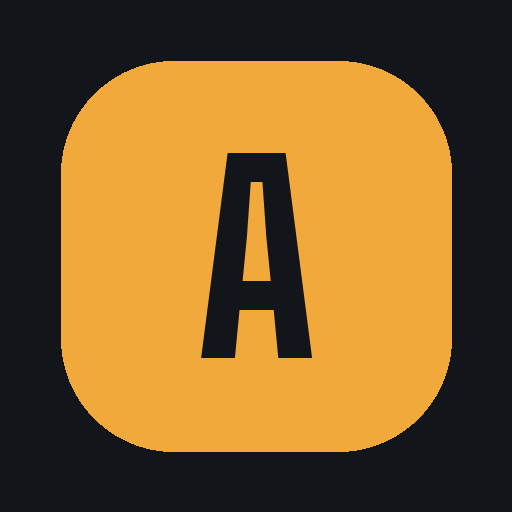
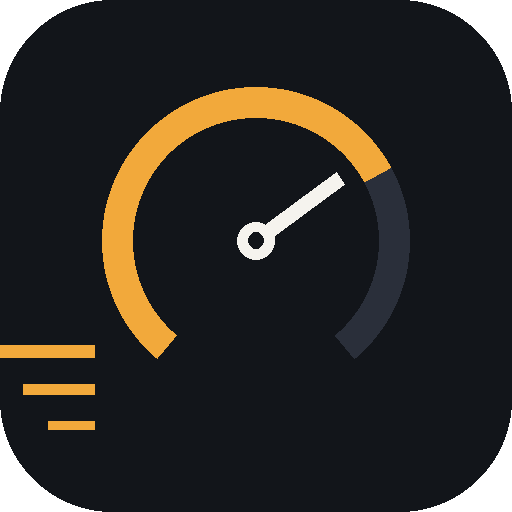
Add files via upload

diff --git a/css/style.css b/css/style.css
@@ -928,3 +928,45 @@ body.light-mode .modal-backdrop { background: #0A0C10aa; }
   background: var(--surface-2); color: var(--text); font-size: 18px; font-weight: 700; cursor: pointer;
 }
 .time-stepper .time-display { font-size: 20px; font-weight: 700; font-family: 'Space Grotesk', sans-serif; min-width: 84px; text-align: center; }
+
+/* ============ Splash Screen ============ */
+.splash-screen {
+  position: fixed; inset: 0; z-index: 999;
+  background: radial-gradient(circle at 50% 35%, #1B1F27 0%, #0A0C10 100%);
+  display: flex; flex-direction: column; align-items: center; justify-content: center;
+  transition: opacity .5s ease, visibility .5s ease;
+}
+.splash-screen.hide { opacity: 0; visibility: hidden; pointer-events: none; }
+
+.splash-gauge { width: 140px; height: 140px; }
+.splash-gauge-track { fill: none; stroke: #2A2F3A; stroke-width: 10; }
+.splash-gauge-fill {
+  fill: none; stroke: #F2A93B; stroke-width: 10; stroke-linecap: round;
+  stroke-dasharray: 251; stroke-dashoffset: 251;
+  animation: splashFill 1.1s cubic-bezier(.4,1.4,.6,1) .15s forwards;
+  filter: drop-shadow(0 0 8px #F2A93B88);
+}
+@keyframes splashFill { to { stroke-dashoffset: 70; } }
+
+.splash-needle {
+  stroke: #F5F3EE; stroke-width: 5; stroke-linecap: round;
+  transform-origin: 70px 70px;
+  transform: rotate(-100deg);
+  animation: splashNeedle 1.1s cubic-bezier(.4,1.4,.6,1) .15s forwards;
+}
+@keyframes splashNeedle { to { transform: rotate(90deg); } }
+.splash-hub { fill: #F5F3EE; }
+
+.splash-wordmark {
+  margin-top: 24px;
+  font-family: 'Space Grotesk', sans-serif;
+  font-size: 26px; font-weight: 700; color: #F5F3EE;
+  opacity: 0; transform: translateY(8px);
+  animation: splashText .5s ease .6s forwards;
+}
+.splash-tagline {
+  margin-top: 6px; font-size: 12px; color: #8B92A1; letter-spacing: .04em;
+  opacity: 0; transform: translateY(8px);
+  animation: splashText .5s ease .8s forwards;
+}
+@keyframes splashText { to { opacity: 1; transform: translateY(0); } }

diff --git a/js/auth.js b/js/auth.js
@@ -31,7 +31,14 @@ document.getElementById('loginForm').addEventListener('submit', async (e) => {
 
   const { error } = await supabaseClient.auth.signInWithPassword({ email, password });
   if (error) {
-    errEl.textContent = 'Email atau password salah.';
+    console.error('Login error:', error); // buka Inspect > Console buat lihat detail aslinya
+    if (error.message.includes('Invalid login credentials')) {
+      errEl.textContent = 'Email atau password salah.';
+    } else if (error.message.includes('Email not confirmed')) {
+      errEl.textContent = 'Email belum dikonfirmasi. Cek inbox/spam kamu dulu.';
+    } else {
+      errEl.textContent = `Gagal masuk: ${error.message}`;
+    }
     return;
   }
   window.location.href = 'app.html';
@@ -67,6 +74,12 @@ registerForm.addEventListener('submit', async (e) => {
 
 // ===== Redirect kalau sudah login =====
 (async () => {
+  const splash = document.getElementById('splashScreen');
+  const hide = () => splash && splash.classList.add('hide');
+  setTimeout(hide, 2500); // pengaman
+
   const { data: { session } } = await supabaseClient.auth.getSession();
-  if (session) window.location.href = 'app.html';
+  if (session) { window.location.href = 'app.html'; return; }
+
+  setTimeout(hide, 500); // beri jeda dikit biar animasi sempat kelihatan
 })();

diff --git a/app.html b/app.html
@@ -18,6 +18,18 @@
 </head>
 <body class="app-body">
 
+<!-- ============ SPLASH SCREEN ============ -->
+<div class="splash-screen" id="splashScreen">
+  <svg class="splash-gauge" viewBox="0 0 140 140">
+    <circle class="splash-gauge-track" cx="70" cy="70" r="40"/>
+    <circle class="splash-gauge-fill" cx="70" cy="70" r="40" transform="rotate(-90 70 70)"/>
+    <line class="splash-needle" x1="70" y1="70" x2="70" y2="30"/>
+    <circle class="splash-hub" cx="70" cy="70" r="6"/>
+  </svg>
+  <p class="splash-wordmark">Argo Meter</p>
+  <p class="splash-tagline">CATAT CUAN, BUKAN CUMA NARIK</p>
+</div>
+
 <div class="phone-frame">
 <div class="app-shell">
 
@@ -414,7 +426,7 @@
 
 <script src="https://cdn.jsdelivr.net/npm/@supabase/supabase-js@2"></script>
 <script src="https://cdn.jsdelivr.net/npm/chart.js@4"></script>
-<script src="https://app.sandbox.midtrans.com/snap/snap.js" data-client-key="Mid-client-HMM2hLKgKX_c0E6U"></script>
+<script src="https://app.sandbox.midtrans.com/snap/snap.js" data-client-key="MIDTRANS_CLIENT_KEY_DISINI"></script>
 <script src="js/supabase-config.js"></script>
 <script src="js/constants.js"></script>
 <script src="js/tracker.js"></script>

diff --git a/js/tracker.js b/js/tracker.js
@@ -2,6 +2,14 @@ let currentUser = null;
 let currentProfile = null;
 let allTransactions = [];
 
+// ===== Splash screen: minimal 900ms biar animasinya kelihatan, tapi nggak lama-lama =====
+const splashMinTime = new Promise(resolve => setTimeout(resolve, 900));
+function hideSplash() {
+  const splash = document.getElementById('splashScreen');
+  if (splash) splash.classList.add('hide');
+}
+setTimeout(hideSplash, 4000); // pengaman: paksa hilang maksimal 4 detik apapun yang terjadi
+
 // ===== Auth guard =====
 (async () => {
   const { data: { session } } = await supabaseClient.auth.getSession();
@@ -15,6 +23,8 @@ let allTransactions = [];
   applyTheme();
   await loadTransactions();
   if (typeof renderProfileTab === 'function') renderProfileTab();
+  await splashMinTime;
+  hideSplash();
 })();
 
 // ===== Bottom nav tab switching =====

diff --git a/js/supabase-config.js b/js/supabase-config.js
@@ -2,7 +2,7 @@
 // Cara dapatnya: Supabase Dashboard > Project Settings > API
 //   - "Project URL"      -> SUPABASE_URL
 //   - "anon public" key  -> SUPABASE_ANON_KEY
-const SUPABASE_URL = "https://ehjmdmmcmablxooocjba.supabase.co";
-const SUPABASE_ANON_KEY = "eyJhbGciOiJIUzI1NiIsInR5cCI6IkpXVCJ9.eyJpc3MiOiJzdXBhYmFzZSIsInJlZiI6ImVoam1kbW1jbWFibHhvb29jamJhIiwicm9sZSI6ImFub24iLCJpYXQiOjE3ODY1MjAxODYsImV4cCI6MjEwMjA5NjE4Nn0.PJUAITPT5PcLTjT9jRrLgWcWMlKV-03mjqTQssM8zLQ";
+const SUPABASE_URL = "https://xxxxxxxxxxxx.supabase.co";
+const SUPABASE_ANON_KEY = "isi-anon-key-kamu-disini";
 
 const supabaseClient = supabase.createClient(SUPABASE_URL, SUPABASE_ANON_KEY);

diff --git a/index.html b/index.html
@@ -20,6 +20,18 @@
 </head>
 <body>
 
+<!-- ============ SPLASH SCREEN ============ -->
+<div class="splash-screen" id="splashScreen">
+  <svg class="splash-gauge" viewBox="0 0 140 140">
+    <circle class="splash-gauge-track" cx="70" cy="70" r="40"/>
+    <circle class="splash-gauge-fill" cx="70" cy="70" r="40" transform="rotate(-90 70 70)"/>
+    <line class="splash-needle" x1="70" y1="70" x2="70" y2="30"/>
+    <circle class="splash-hub" cx="70" cy="70" r="6"/>
+  </svg>
+  <p class="splash-wordmark">Argo Meter</p>
+  <p class="splash-tagline">CATAT CUAN, BUKAN CUMA NARIK</p>
+</div>
+
 <div class="noise-overlay"></div>
 
 <div class="phone-frame">

diff --git a/service-worker.js b/service-worker.js
@@ -1,4 +1,4 @@
-const CACHE_NAME = 'argometer-v5';
+const CACHE_NAME = 'argometer-v6';
 const SHELL_FILES = [
   'index.html',
   'app.html',
@@ -13,6 +13,8 @@ const SHELL_FILES = [
   'js/analysis.js',
   'js/profile.js',
   'manifest.json',
+  'icons/icon-192.png',
+  'icons/icon-512.png',
 ];
 
 self.addEventListener('install', (event) => {
